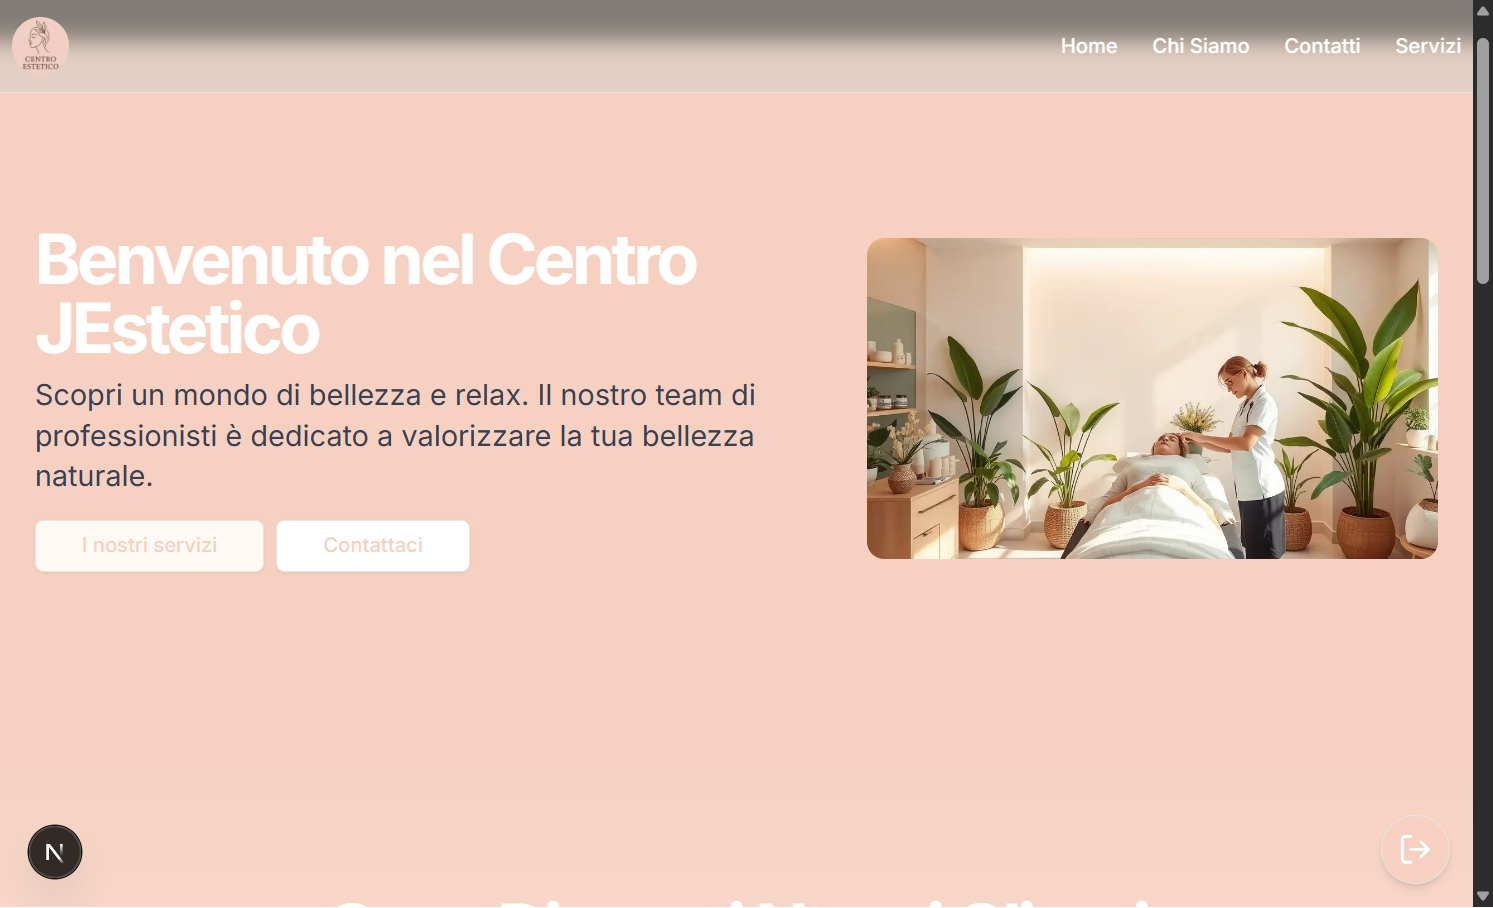
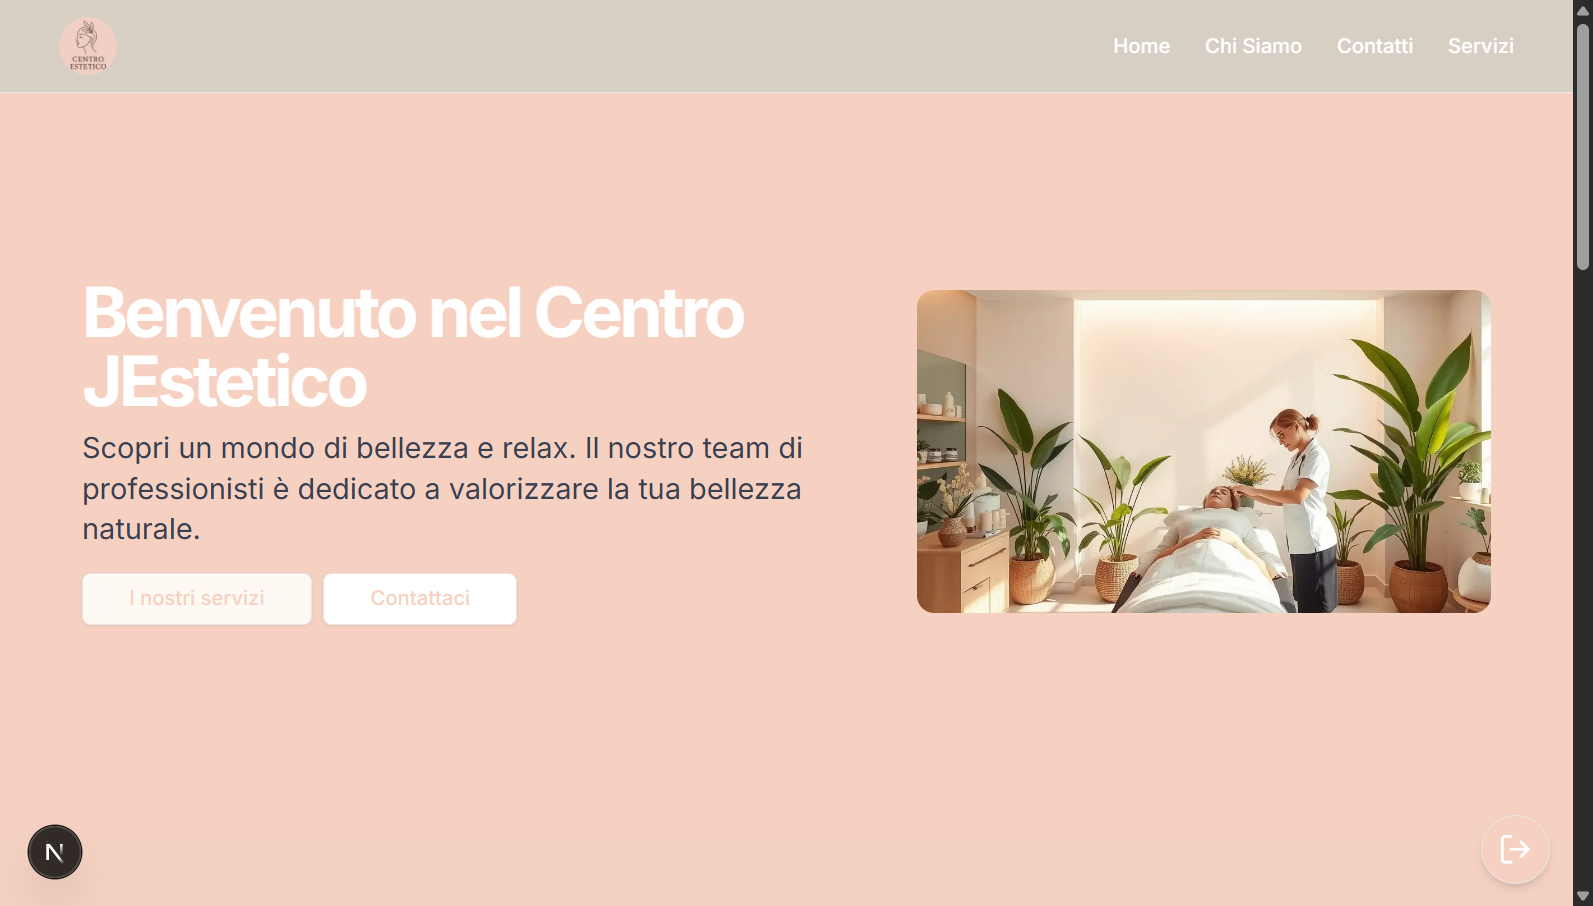
refactor(Aboutpage)

diff --git a/templates/estetista-template/app/about/page.tsx b/templates/estetista-template/app/about/page.tsx
@@ -1,93 +1,16 @@
 // templates/estetista-template/app/about/page.tsx
 
 import React from 'react';
-import Image from 'next/image';
+import MissionSection from '@estetista/components/molecules/MissionSection';
+import AboutSection from '@estetista/components/molecules/AboutSection';
+import ValuesSection from '@estetista/components/molecules/ValuesSection';
 
 export default function AboutPage() {
   return (
     <>
-      <div className="px-4 py-12 bg-primary">
-      <div className="container mx-auto max-w-4xl space-y-8">
-        <div className="text-center">
-          <h1 className="text-4xl font-bold tracking-tight text-black" >
-            Chi Siamo
-          </h1>
-          <p className="mt-4 text-lg text-gray-500">Scopri di più sul nostro salone e sul nostro impegno per la bellezza e il benessere</p>
-        </div>
-
-        <div className="grid gap-8 md:grid-cols-2 items-center">
-          <div>
-            <Image
-              src="/estetista/images/about_us.png"
-              alt="Il Nostro Salone"
-              width={600}
-              height={400}
-              className="rounded-lg object-cover"
-            />
-          </div>
-          <div className="space-y-4">
-            <h2 className="text-2xl font-bold text-black" >
-              La Nostra Storia
-            </h2>
-            <p className="text-gray-600">
-              Fondato nel 2016, il centro JEstetico è nato da una passione per la bellezza e dal desiderio di creare uno spazio dove
-              i clienti potessero rilassarsi, rigenerarsi e valorizzare la propria bellezza naturale.
-            </p>
-            <p className="text-gray-600">
-              Nel corso degli anni, siamo cresciuti fino a diventare un salone di bellezza completo, offrendo una vasta gamma di trattamenti e
-              servizi progettati per soddisfare le esigenze uniche di ogni cliente.
-            </p>
-            <p className="text-gray-600">
-              Il nostro team di professionisti qualificati è dedicato a fornire un servizio eccezionale e a garantire che ogni
-              cliente lasci il nostro salone sentendosi bella e sicura di sé.
-            </p>
-          </div>
-        </div>
-
-        <div className="space-y-4 p-6 rounded-lg text-black">
-          <h2 className="text-2xl font-bold text-center text-black" >
-            La Nostra Missione
-          </h2>
-          <p className="text-gray-600 text-center">
-            La nostra missione è valorizzare la bellezza naturale dei nostri clienti attraverso trattamenti di alta qualità e un servizio personalizzato.
-            Ci impegniamo a creare un ambiente accogliente dove i clienti possano rilassarsi e rigenerarsi ricevendo
-            il massimo standard di cura.
-          </p>
-        </div>
-
-        <div className="space-y-6">
-          <h2 className="text-2xl font-bold text-center text-black" >
-            I Nostri Valori
-          </h2>
-          <div className="grid gap-6 md:grid-cols-3">
-            {[
-              {
-                title: "Qualità",
-                description:
-                  "Utilizziamo solo prodotti e tecniche di alta qualità per garantire i migliori risultati ai nostri clienti.",
-              },
-              {
-                title: "Professionalità",
-                description:
-                  "Il nostro team è composto da professionisti qualificati che si impegnano a fornire un servizio eccezionale.",
-              },
-              {
-                title: "Soddisfazione del Cliente",
-                description:
-                  "Diamo priorità alle esigenze e alle preferenze dei nostri clienti per garantire la loro completa soddisfazione.",
-              },
-            ].map((value, index) => (
-              <div key={index} className="rounded-lg  p-4 text-center bg-secondary" >
-                <h3 className="text-xl font-bold mb-2 text-black" >
-                  {value.title}
-                </h3>
-                <p className="text-gray-600">{value.description}</p>
-              </div>
-            ))}
-          </div>
-        </div>
-      </div>
-    </div>
-    </>
+      <AboutSection />
+      <MissionSection />
+      <ValuesSection />
+       </>
   );
 }

diff --git a/templates/estetista-template/components/molecules/AboutSection/index.tsx b/templates/estetista-template/components/molecules/AboutSection/index.tsx
@@ -1,0 +1,51 @@
+import React, { FC } from "react";
+import AboutSectionProps from "./index.types"
+import Image from "next/image";
+
+const AboutSection: FC<AboutSectionProps> = ({ }) => {
+  return <>
+      <section className="px-4 py-12 bg-primary">
+      <div className="container mx-auto max-w-4xl space-y-8">
+        <div className="text-center">
+          <h1 className="text-4xl font-bold tracking-tight text-black">
+            Chi Siamo
+          </h1>
+          <p className="mt-4 text-lg text-gray-500">
+            Scopri di più sul nostro salone e sul nostro impegno per la bellezza e il benessere
+          </p>
+        </div>
+
+        <div className="grid gap-8 md:grid-cols-2 items-center">
+          <div>
+            <Image
+              src="/estetista/images/about_us.png"
+              alt="Il Nostro Salone"
+              width={600}
+              height={400}
+              className="rounded-lg object-cover"
+            />
+          </div>
+          <div className="space-y-4">
+            <h2 className="text-2xl font-bold text-black">
+              La Nostra Storia
+            </h2>
+            <p className="text-gray-600">
+              Fondato nel 2016, il centro JEstetico è nato da una passione per la bellezza e dal desiderio di creare uno spazio dove
+              i clienti potessero rilassarsi, rigenerarsi e valorizzare la propria bellezza naturale.
+            </p>
+            <p className="text-gray-600">
+              Nel corso degli anni, siamo cresciuti fino a diventare un salone di bellezza completo, offrendo una vasta gamma di trattamenti e
+              servizi progettati per soddisfare le esigenze uniche di ogni cliente.
+            </p>
+            <p className="text-gray-600">
+              Il nostro team di professionisti qualificati è dedicato a fornire un servizio eccezionale e a garantire che ogni
+              cliente lasci il nostro salone sentendosi bella e sicura di sé.
+            </p>
+          </div>
+        </div>
+      </div>
+    </section>
+  </>
+}
+
+export default AboutSection

diff --git a/templates/estetista-template/components/molecules/ValuesSection/index.tsx b/templates/estetista-template/components/molecules/ValuesSection/index.tsx
@@ -1,0 +1,46 @@
+import React, { FC } from "react";
+import ValuesSectionProps from "./index.types"
+
+const ValuesSection: FC<ValuesSectionProps> = ({ }) => {
+  const values = [
+    {
+      title: "Qualità",
+      description:
+        "Utilizziamo solo prodotti e tecniche di alta qualità per garantire i migliori risultati ai nostri clienti.",
+    },
+    {
+      title: "Professionalità",
+      description:
+        "Il nostro team è composto da professionisti qualificati che si impegnano a fornire un servizio eccezionale.",
+    },
+    {
+      title: "Soddisfazione del Cliente",
+      description:
+        "Diamo priorità alle esigenze e alle preferenze dei nostri clienti per garantire la loro completa soddisfazione.",
+    },
+  ];
+
+  
+  return <>
+  
+  <section className="py-12 bg-primary">
+      <div className="container mx-auto max-w-4xl space-y-6">
+        <h2 className="text-2xl font-bold text-center text-black">
+          I Nostri Valori
+        </h2>
+        <div className="grid gap-6 md:grid-cols-3">
+          {values.map((value, index) => (
+            <div key={index} className="rounded-lg p-4 text-center bg-secondary">
+              <h3 className="text-xl font-bold mb-2 text-black">
+                {value.title}
+              </h3>
+              <p className="text-gray-600">{value.description}</p>
+            </div>
+          ))}
+        </div>
+      </div>
+    </section>
+</>
+}
+
+export default ValuesSection

diff --git a/templates/estetista-template/components/molecules/MissionSection/index.tsx b/templates/estetista-template/components/molecules/MissionSection/index.tsx
@@ -1,0 +1,21 @@
+import React, { FC } from "react";
+import MissionSectionProps from "./index.types"
+
+const MissionSection: FC<MissionSectionProps> = ({ }) => {
+  return <>
+      <section className="py-12 bg-secondary ">
+      <div className="container mx-auto max-w-4xl space-y-4 p-6 text-black rounded-full bg-primary">
+        <h2 className="text-2xl font-bold text-center text-black">
+          La Nostra Missione
+        </h2>
+        <p className="text-gray-600 text-center">
+          La nostra missione è valorizzare la bellezza naturale dei nostri clienti attraverso trattamenti di alta qualità e un servizio personalizzato.
+          Ci impegniamo a creare un ambiente accogliente dove i clienti possano rilassarsi e rigenerarsi ricevendo
+          il massimo standard di cura.
+        </p>
+      </div>
+    </section>
+</>
+}
+
+export default MissionSection

diff --git a/templates/estetista-template/config.js b/templates/estetista-template/config.js
@@ -2,7 +2,7 @@ export const templateConfig = {
   colors: {
     primary: "#F6D1C1",
     secondary: "#FFF9F4",
-    tertiary: "#FFF9F4",
+    tertiary: "#D8CFC4",
   },
   logo: "/images/estetista-logo.png",
   menuItems: [

diff --git a/templates/estetista-template/components/molecules/MissionSection/index.types.ts b/templates/estetista-template/components/molecules/MissionSection/index.types.ts
@@ -1,0 +1,1 @@
+export default interface MissionSectionProps { }

diff --git a/templates/estetista-template/components/molecules/ValuesSection/index.types.ts b/templates/estetista-template/components/molecules/ValuesSection/index.types.ts
@@ -1,0 +1,1 @@
+export default interface ValuesSectionProps { }

diff --git a/templates/estetista-template/components/molecules/AboutSection/index.types.ts b/templates/estetista-template/components/molecules/AboutSection/index.types.ts
@@ -1,0 +1,1 @@
+export default interface AboutSectionProps { }
